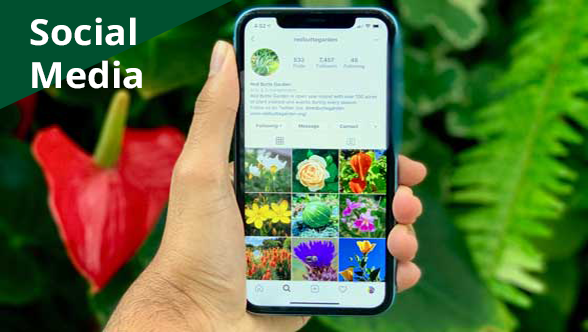
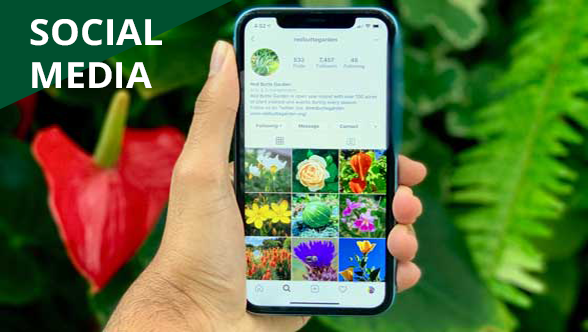
Media section change

Changed region(s): [[0.0918, 0.0301, 0.2755, 0.1506], [0.0918, 0.1807, 0.2755, 0.2711]]

diff --git a/index.html b/index.html
@@ -7,11 +7,11 @@ layout: "homepage"
 
 <div>
 	<hr class="hr-separator">
-	<div class="separator">Media</div>
+	<div class="separator">MEDIA</div>
 </div>
 
 <div class="row-fluid">
-	<div class="col-sm-6"><a href="/whats-blooming"><img class="hover" src="/images/core/blog1.jpg"></a></div>
+	<div class="col-sm-6"><a href="/whats-blooming"><img class="hover" src="/images/core/blog1.png"></a></div>
 	<div class="col-sm-6"><a href="/social-media"><img class="hover" src="/images/core/socialMedia-small.png"></a></div>
 </div>
 
